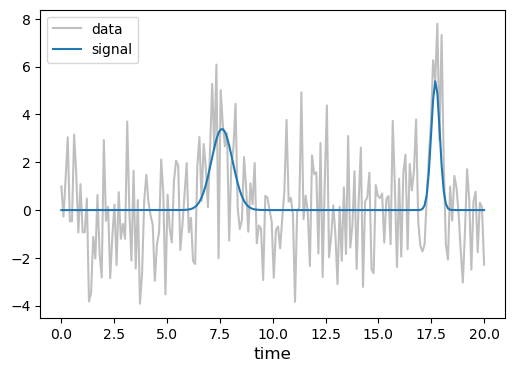
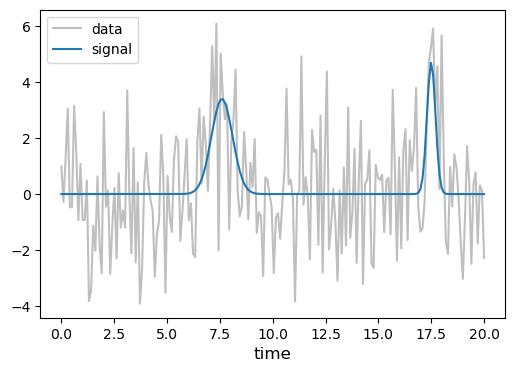
Adjust MCMC Multi-Bump example for a different set of injection parameters
Additionally change portions of the discussion to reflect the new injected sources

diff --git a/docs/source/sections/mcmc_multi-bump/mcmc_multi-bump.md b/docs/source/sections/mcmc_multi-bump/mcmc_multi-bump.md
@@ -88,7 +88,7 @@ For this problem we want to simulate a dataset with *two* bumps in it so we crea
 
 # Inject the true values of the parameters we will try to recover!
 injection = [[3.4, 7.6, 0.5],
-             [5.4, 17.7, 0.2]]
+             [4.7, 17.5, 0.2]]
 
 # calculate the signal from the model
 signal = np.zeros_like(times)
@@ -188,11 +188,12 @@ def ln_like(param, data, sigma_n, times):
 
 **Sanity Check:** Let's test the output of our prior and likelihood functions to make sure that they work the way we expect:
 
+```{hint}
+Notice in particular the difference in the values of the log-likelihood at injection 1 vs. injection 2.  The actual value of the log-likelihood at the first bump (injection 1) is smaller than at the second bump (injection 2).  This already should help to build our intuition for what is going to happen when we run the MCMC algorithm.  Because the second bump has more support in the log-likelihood, our MCMC should find in the final posterior *more* support for the second bump as compared to the first bump.
+```
+
 ```{margin}
 Note, our log-prior and log-likelihood functions as we have defined them here are only equiped to take as input one set of parameters for the bump model at a time.  So for our quick check here we are looking at the values of the log-prior/log-likelihood evaluated at each individual injection.
-
-**Key Insight**
-Notice in particular the difference in the values of the log-likelihood at injection 1 vs. injection 2.  The actual value of the log-likelihood at the first bump (injection 1) is smaller than at the second bump (injection 2).  This already should help to build our intuition for what is going to happen when we run the MCMC algorithm.  Because the second bump has more support in the log-likelihood (both bumps have roughly the same support in their log-priors, so that doesn't matter as much for this example) then our MCMC should find in the final posterior *more* support for the second bump compared to the first bump.
 ```
 
 
@@ -207,9 +208,9 @@ print(r"--> log-likelihood of injection 2 = {0:0.4f}".format(ln_like(injection[1
 
     Quick checks:
     --> log-prior of injection 1      = -6.5807
-    --> log-prior of injection 2      = -6.1271
+    --> log-prior of injection 2      = -5.9882
     --> log-prior out of prior range  = -1.0000e+300
-    --> log-likelihood of injection 1 = -107.5459
+    --> log-likelihood of injection 1 = -99.7395
     --> log-likelihood of injection 2 = -98.6449
 
 
@@ -392,7 +393,7 @@ x_samples = np.zeros((Nsample, Ndim))
 
 # Initialize in-model jump tracking diagnostic (dynamic counter)
 # --> store 0 (jump rejected) or 1 (jump accepted)
-jump_counter_inmodel = np.zeros(Nsample-1)
+counter_jump_inmodel = np.zeros(Nsample-1)
 
 # Starting sample
 # --> (Pseudo-Code Step 1)
@@ -457,19 +458,19 @@ for i in tqdm(range(1,Nsample)):
             # accept the proposed sample
             x_samples[i,:] = x_proposed
             # update the in-model jump tracking diagnostic
-            jump_counter_inmodel[i-1] = 1
+            counter_jump_inmodel[i-1] = 1
         else:
             # keep the current sample
             x_samples[i,:] = x_current
 ```
 
-    100%|█████████████████████████████████████████████████████████████████████████████████████████████████████████████| 199999/199999 [01:14<00:00, 2681.64it/s]
+    100%|█████████████████████████████████████████████████████████████████████████████████████████████████████████████| 199999/199999 [01:17<00:00, 2588.29it/s]
 
 
 
 ```python
 # Calculate the in-model jump acceptance ratio (dynamic)
-jump_acceptance_ratio_inmodel = np.cumsum(jump_counter_inmodel) / np.arange(1,Nsample,1)
+jump_acceptance_ratio_inmodel = np.cumsum(counter_jump_inmodel) / np.arange(1,Nsample,1)
 ```
 
 ### Result Plots
@@ -521,7 +522,7 @@ plt.show()
 
 
     
-![png](output_42_0.png)
+![png](output_41_0.png)
     
 
 
@@ -532,7 +533,6 @@ plt.show()
 #-----------------------
 
 fig, ax = plt.subplots(1,1,figsize=(12,2), sharex=True)
-plt.subplots_adjust(hspace=0.05)
 ax.set_ylim([0,1])
 
 ax.scatter(np.arange(1,Nsample,1), jump_acceptance_ratio_inmodel, s=0.5)
@@ -548,7 +548,7 @@ plt.show()
 
 
     
-![png](output_43_0.png)
+![png](output_42_0.png)
     
 
 
@@ -576,6 +576,8 @@ Create the final corner plot of the posterior samples.
 
 ```{margin}
 With *ChainConsumer*, we can add multiple truth markers and adjust their appearance, which is really convenient!
+
+Another very cool feature of *ChainConsumer* is that we can identify when we think there are multiple modes in the data, and it will search for their respective intervals!
 ```
 
 
@@ -586,9 +588,10 @@ With *ChainConsumer*, we can add multiple truth markers and adjust their appeara
 
 c = ChainConsumer()
 
-chain = Chain(samples = PD_samples_final,
-              columns = label,
-              name    = "MCMC: Multi-Bump",
+chain = Chain(samples    = PD_samples_final,
+              columns    = label,
+              name       = "MCMC: Multi-Bump",
+              multimodal = True,
               )
 
 c.add_chain(chain)
@@ -601,7 +604,7 @@ c.plotter.plot();
 
 
     
-![png](output_47_0.png)
+![png](output_46_0.png)
     
 
 
@@ -624,7 +627,7 @@ indices = np.random.randint(len(x_samples_final), size=nselect)
 # Now feed those parameters back into the model and see how they look plotted on our data
 for ind in indices:
     model = Model(*x_samples_final[ind,:], times)
-    ax.plot(times, model, color='r', alpha=2/nselect)
+    ax.plot(times, model, color='r', alpha=4/nselect)
 
 # plot the signal
 ax.plot(times, signal, color='C0', label='signal')
@@ -644,18 +647,17 @@ plt.show()
 
 
     
-![png](output_49_0.png)
+![png](output_48_0.png)
     
 
 
-So let's discuss what happened here.  Our current MCMC is working fine - it is not broken!  But we now have a multi-modal problem, and the sampler is struggling to properly explore all of the modes successfully.  Perhaps not surpisingly based on the [**Key Insight** we mentioned above](#prior-and-likelihood), the sampler is more easily able to find and explore the mode that has the higher support from our log-likelihood function, which is the second bump here.
+So let's discuss what happened here.  We have a multi-modal problem, and for this particular example, our MCMC algorithm managed to find both of the modes.  Additionally, confirming our earlier [**Hint** we mentioned above](#prior-and-likelihood), we see that the sampler found more support (and thus, had a slightly easier time exploring) the second bump thanks to it having more support than the first bump in our log-likelihood function.
 
 If we re-run this sampler without any changes, then we might see that occasionally the sampler will explore the first bump.  But once it proposes a jump in parameter space that lands it close to the second bump, it will have a harder time jumping back to the first bump.
 
-```{hint}
-**Try on Your Own**
+```{admonition} Homework!
 
-Try playing around with this a little on your own and see if you can make *this* sampler work any better.  For example, try changing the ratio of the rates that we are using to specify the two jump schemes that we have employed.  What happens if you make prior jumps more often?  Also try running the sampler multiples, or for more iterations.
+Try playing around with this problem a little on your own and see if you can test the limitations of this sampler.  For example, try changing the ratio of the rates that we are using to specify the two jump schemes that we have employed.  What happens if you make prior jumps more often?
 
-Another thing to try, adjust the values of the injected parameters themselves!  Try injecting two identical bumps.  Try injecting two bumps whose log-likelihood values are very nearly the same (refer back to the [**Key Insight** mentioned above](#prior-and-likelihood)).  Will this set-up work more successfully when you have different bumps in your data?
+Additionally, try adjusting the values of the injected parameters themselves!  Try injecting two identical bumps.  Try injecting two bumps whose log-likelihood values have a greater difference (refer back to the [**Hint** mentioned above](#prior-and-likelihood)), and see what it does to the efficiency of the sampler.  Try injecting three or four bumps, or just a single bump!
 ```
